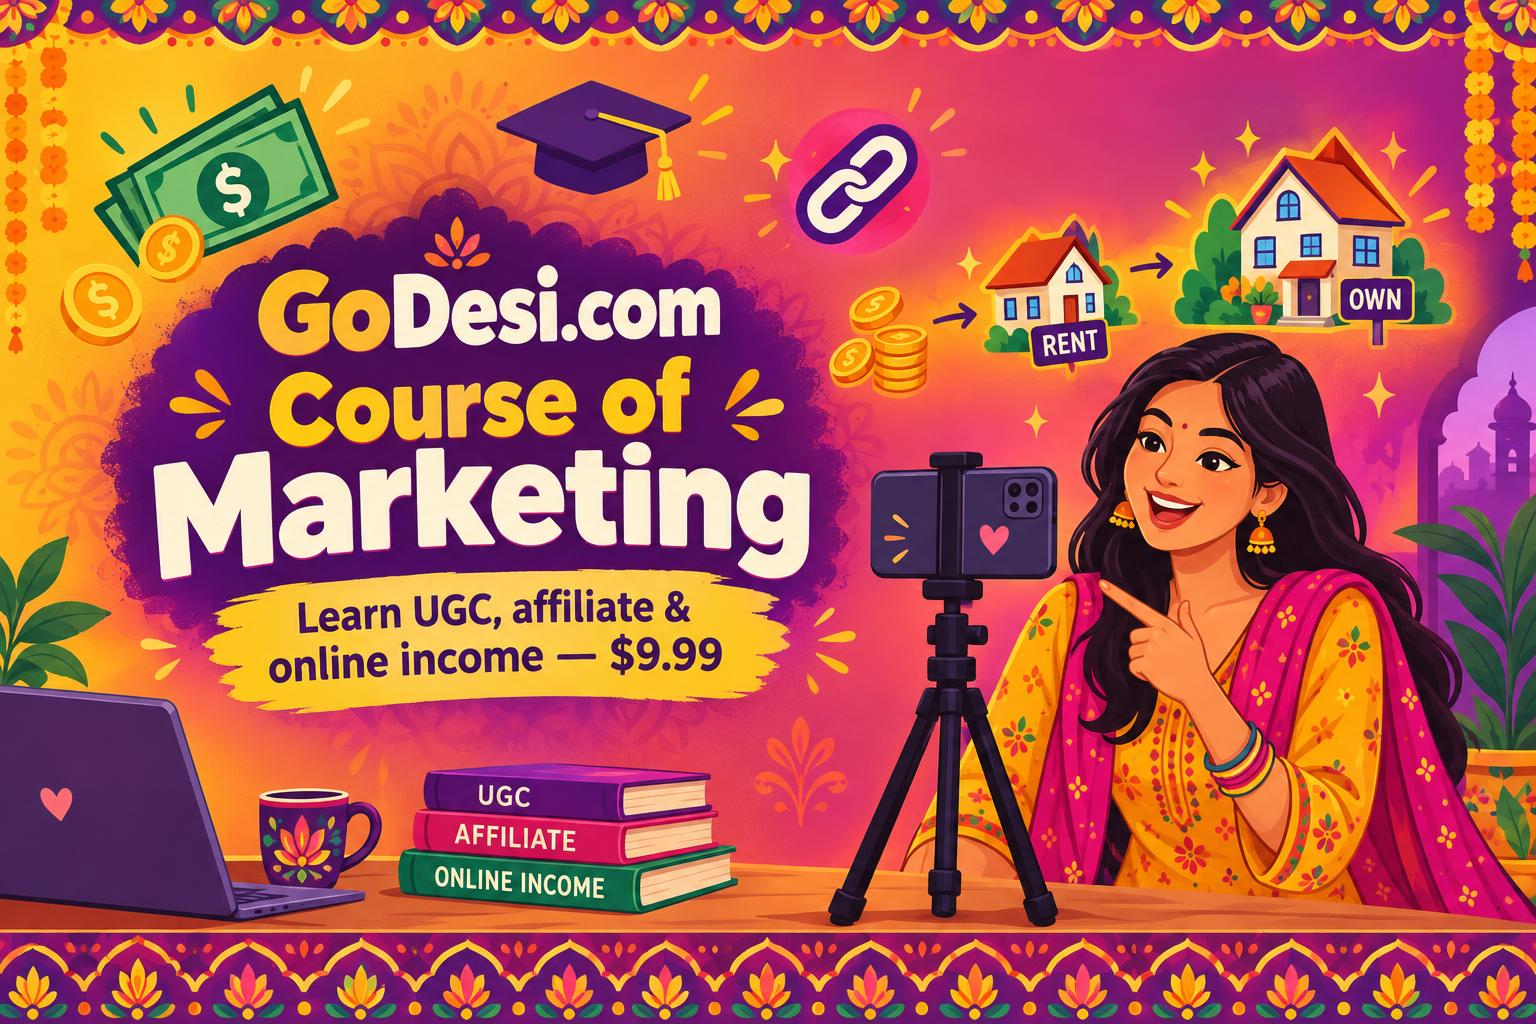
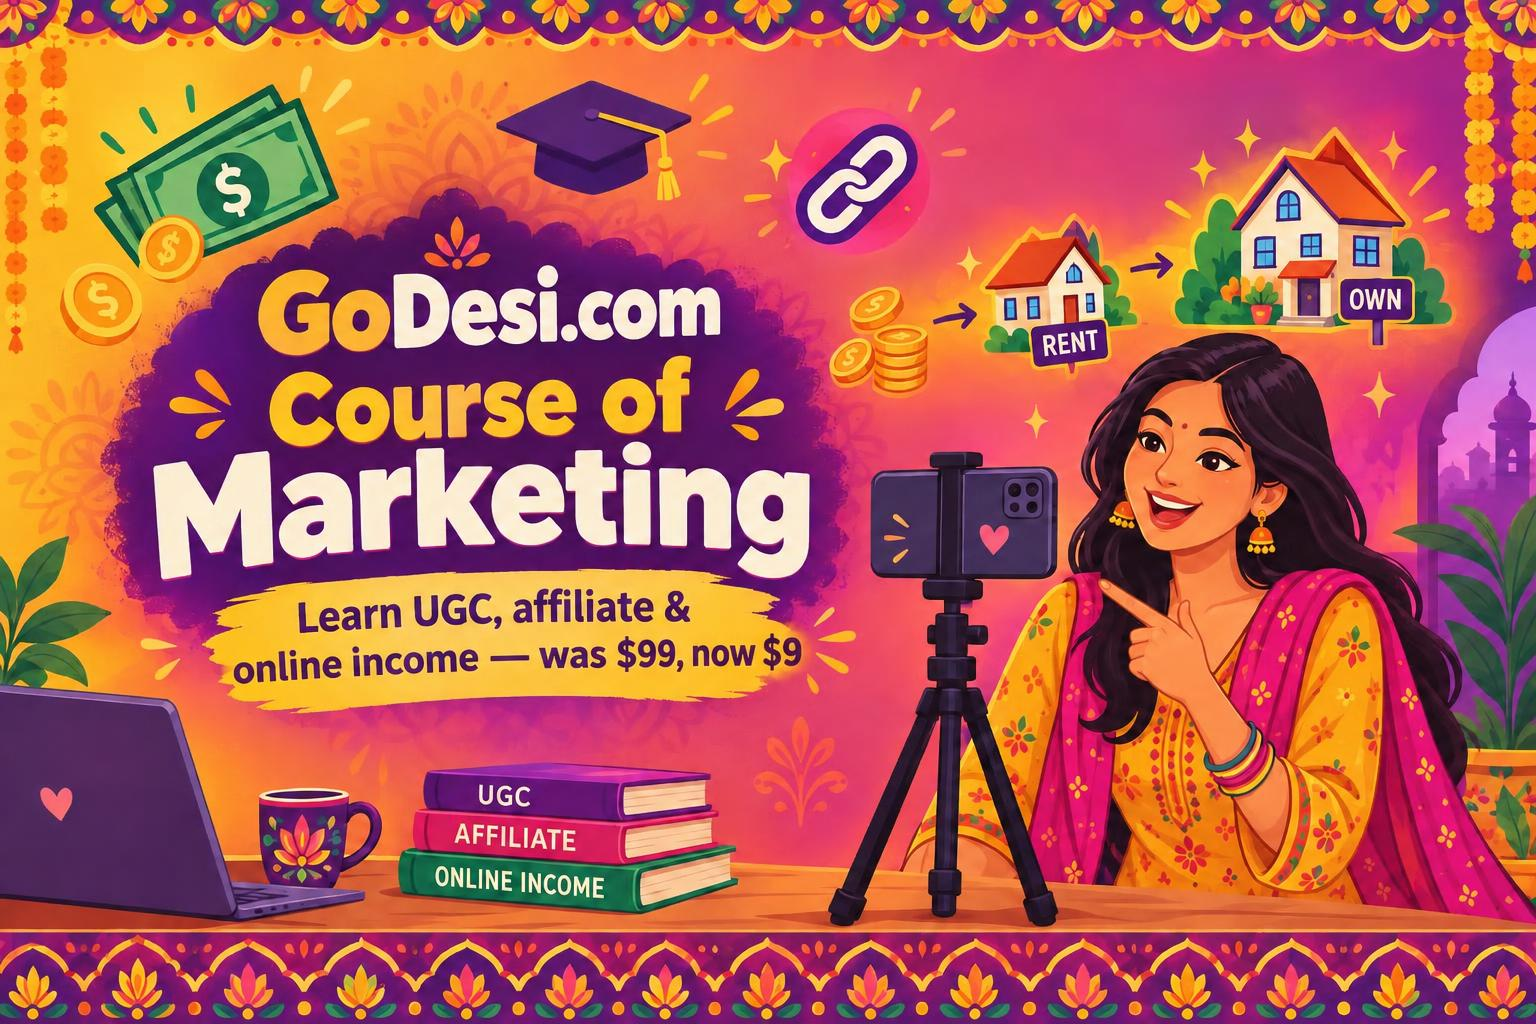
Course repriced to $9 launch deal (was $99) + deal presentation

diff --git a/src/lib/course.ts b/src/lib/course.ts
@@ -1,7 +1,9 @@
-/** The GoDesi Course of Marketing — lessons unlocked by a $9.99 purchase. */
+/** The GoDesi Course of Marketing — lessons unlocked by a $9 launch deal
+ *  (list price $99). */
 
 export const COURSE_SLUG = "marketing";
-export const COURSE_PRICE_MINOR = 999;
+export const COURSE_PRICE_MINOR = 900;
+export const COURSE_LIST_PRICE_MINOR = 9_900;
 export const COURSE_TITLE = "GoDesi.com Course of Marketing";
 export const COURSE_TAGLINE =
   "How everyday people make money online — UGC, affiliate income, selling digital products — and how to grow it from pocket money into an asset you own.";
@@ -56,11 +58,11 @@ export const LESSONS: Lesson[] = [
     ],
   },
   {
-    title: "Selling digital products — the $9.99 course you're in right now",
+    title: "Selling digital products — the $9 course you're in right now",
     minutes: 7,
     paragraphs: [
-      "You're inside a live example: this course is a digital product. It was written once and sells over and over at $9.99 with no inventory, no shipping, no rent. That's the model — package what you know (or learn) into a guide, template pack, mini-course or checklist and sell it on repeat.",
-      "$9.99 is a sweet spot: cheap enough to buy on impulse from a TikTok video, high enough that 100 sales a month is real money.",
+      "You're inside a live example: this course is a digital product. It was written once and sells over and over at a $9 launch deal with no inventory, no shipping, no rent. That's the model — package what you know (or learn) into a guide, template pack, mini-course or checklist and sell it on repeat.",
+      "Under $10 is a sweet spot: cheap enough to buy on impulse from a TikTok video, high enough that 100 sales a month is real money.",
     ],
     bullets: [
       "Solve ONE specific problem ('make your first UGC sale', 'write listings that sell').",
@@ -86,13 +88,13 @@ export const LESSONS: Lesson[] = [
     title: "Offers & pricing — why people actually click buy",
     minutes: 6,
     paragraphs: [
-      "People don't buy products, they buy outcomes: 'make your first $100 online' beats '10 video lessons'. Price follows the outcome — a course that helps someone earn $500 is cheap at $9.99 or $49.",
+      "People don't buy products, they buy outcomes: 'make your first $100 online' beats '10 video lessons'. Price follows the outcome — a course that helps someone earn $500 is cheap at $9 or $49.",
       "Simple pricing rules: cheap entry products ($5–$25) to turn strangers into buyers, mid offers ($50–$200) for people who got results, and premium offers (your time, done-for-you) for the few who want speed.",
     ],
     bullets: [
       "Name the outcome in the title — 'Course of Marketing' sells what it does.",
       "One-time payment beats subscriptions for beginners — zero pressure, instant yes.",
-      "Anchor: show the $200 version next to the $9.99 version and the cheap one flies.",
+      "Anchor: show the $99 list price next to the $9 deal and the cheap one flies — this page does exactly that.",
     ],
   },
   {
@@ -125,7 +127,7 @@ export const LESSONS: Lesson[] = [
     title: "Simple funnels — the path from stranger to customer",
     minutes: 6,
     paragraphs: [
-      "A funnel is just the journey: See video → click link → read page → buy → get emails → buy again. Every business online is this, from a $9.99 course to a car dealership. Draw yours on one line and fix the weakest step.",
+      "A funnel is just the journey: See video → click link → read page → buy → get emails → buy again. Every business online is this, from a $9 course to a car dealership. Draw yours on one line and fix the weakest step.",
       "If nobody clicks, the hook is weak. If they click but don't buy, the offer or price is wrong. If they buy once and vanish, you have no follow-up — that's where the owned list comes back in.",
     ],
     bullets: [

diff --git a/src/app/course/page.tsx b/src/app/course/page.tsx
@@ -69,7 +69,10 @@ export default async function CoursePage({
                 type="submit"
                 className="rounded-2xl bg-white px-6 py-3 text-base font-black text-fuchsia-700 shadow-lg transition hover:scale-105"
               >
-                Buy the course — $9.99
+                Buy the course — $9{" "}
+                <span className="text-sm font-bold text-fuchsia-400 line-through">
+                  $99
+                </span>
               </button>
             </form>
           ) : (
@@ -77,9 +80,15 @@ export default async function CoursePage({
               href="/login?next=/course"
               className="rounded-2xl bg-white px-6 py-3 text-base font-black text-fuchsia-700 shadow-lg transition hover:scale-105"
             >
-              Buy the course — $9.99
+              Buy the course — $9{" "}
+              <span className="text-sm font-bold text-fuchsia-400 line-through">
+                $99
+              </span>
             </Link>
           )}
+          <span className="rounded-full bg-amber-300 px-2.5 py-1 text-xs font-black text-amber-950">
+            LAUNCH DEAL · was $99
+          </span>
           <span className="text-xs text-white/80">
             One payment · lifetime access · {LESSONS.length} lessons
           </span>
@@ -130,9 +139,9 @@ export default async function CoursePage({
       </Card>
 
       <Alert tone="info">
-        <strong>Why $9.99?</strong> Cheap enough to buy on impulse, real enough
-        to take seriously — exactly the pricing tactic lesson 6 teaches. One
-        payment, the lessons stay yours forever.
+        <strong>Why $9 (was $99)?</strong> Cheap enough to buy on impulse,
+        real enough to take seriously — exactly the anchor-pricing tactic
+        lesson 6 teaches. One payment, the lessons stay yours forever.
       </Alert>
     </div>
   );

diff --git a/src/app/pricing/page.tsx b/src/app/pricing/page.tsx
@@ -190,7 +190,7 @@ export default async function PricingPage({
           New — learn online earning
         </p>
         <p className="text-2xl font-black">
-          🎓 GoDesi.com Course of Marketing — $9.99
+          🎓 GoDesi.com Course of Marketing — $9 (was $99)
         </p>
         <p className="mt-1 text-sm text-white/90">
           UGC, affiliate income, digital products, the TikTok playbook and

diff --git a/src/components/DealOfTheDay.tsx b/src/components/DealOfTheDay.tsx
@@ -82,7 +82,7 @@ export async function DealOfTheDayBar() {
               href="/course"
               className="font-semibold text-fuchsia-800 hover:underline"
             >
-              🎓 $9.99 course →
+              🎓 $9 course →
             </Link>
           </p>
           <p className="truncate text-xs text-slate-600">
